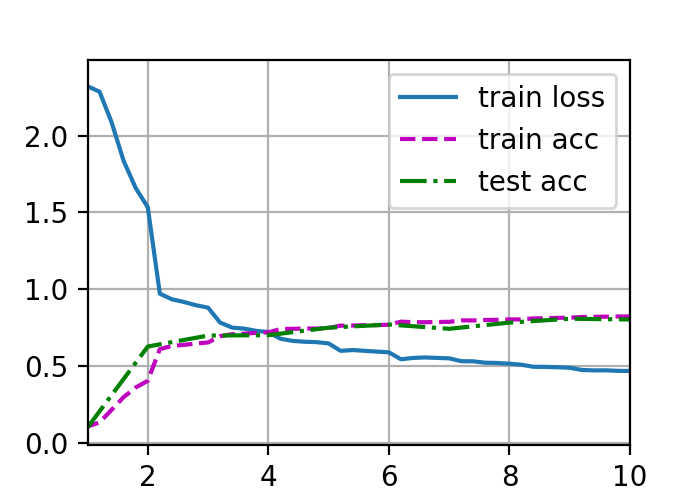
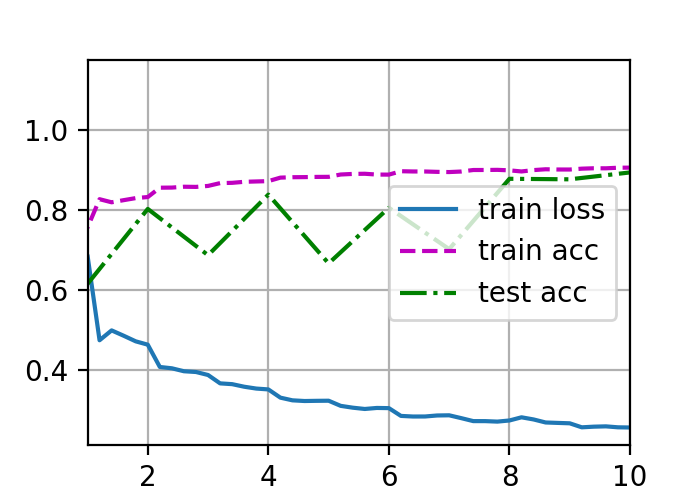
batch norm

Changed region(s): [[0.03, 0.12, 0.9, 0.93], [0.12, 0.15, 0.15, 0.21], [0.15, 0.48, 0.18, 0.51]]

diff --git a/LeNet.py b/LeNet.py
@@ -4,13 +4,13 @@ from d2l import torch as d2l
 from utils.utils import train_ch6
 
 net = nn.Sequential(
-    nn.Conv2d(1, 6, kernel_size=5, padding=2), nn.Sigmoid(),
+    nn.Conv2d(1, 6, kernel_size=5, padding=2), nn.BatchNorm2d(6), nn.Sigmoid(),
     nn.AvgPool2d(kernel_size=2, stride=2),
-    nn.Conv2d(6, 16, kernel_size=5), nn.Sigmoid(),
+    nn.Conv2d(6, 16, kernel_size=5), nn.BatchNorm2d(16), nn.Sigmoid(),
     nn.AvgPool2d(kernel_size=2, stride=2),
     nn.Flatten(),
-    nn.Linear(16 * 5 * 5, 120), nn.Sigmoid(),
-    nn.Linear(120, 84), nn.Sigmoid(),
+    nn.Linear(16 * 5 * 5, 120), nn.BatchNorm1d(120), nn.Sigmoid(),
+    nn.Linear(120, 84), nn.BatchNorm1d(84), nn.Sigmoid(),
     nn.Linear(84, 10))
 
 batch_size = 256

diff --git a/notes/note.md b/notes/note.md
@@ -84,3 +84,19 @@ dropout 会让收敛变慢，但是学习率也不用对应调高（多训练一
 - 我们会做 data augmentation，所以不太需要pooling的平移性了
 
 pooling可以理解成一种较弱的regularization（比起drop out或者L1/L2 regularization）因为可以减小dimension和feature variance，所以达到了限制模型容量的效果
+
+# Batch Norm
+
+对于很深的网络来说，loss 出现在最后，后面的层会学习得比较快。靠近数据的前面的层训练得很慢，但是前面的层变了之后，后面的层又需要相应的改变。最终收敛的速度变慢。
+
+我们可以在学习前面的层的时候，锁定后面的层吗？
+
+批量归一化能加速收敛，但是不会改善精度。可以理解成加了随机scale和noise，所以一般不会和dropout同时使用
+
+$$BN(x) = \gamma \circ \frac{x - \mu}{\sigma} + \beta$$
+
+将权重减去平均值，再除以方差，乘上线性系数并加上偏移（这两个是可以学习的参数）
+
+全连接中计算的是特征维的，卷积层中计算的是通道维的。（意思是说除了这一维以外，对其他所有维度求均值）
+
+代码部分放在LeNet了（因为对channel求均值，所以norm大小是另外的所有维）
